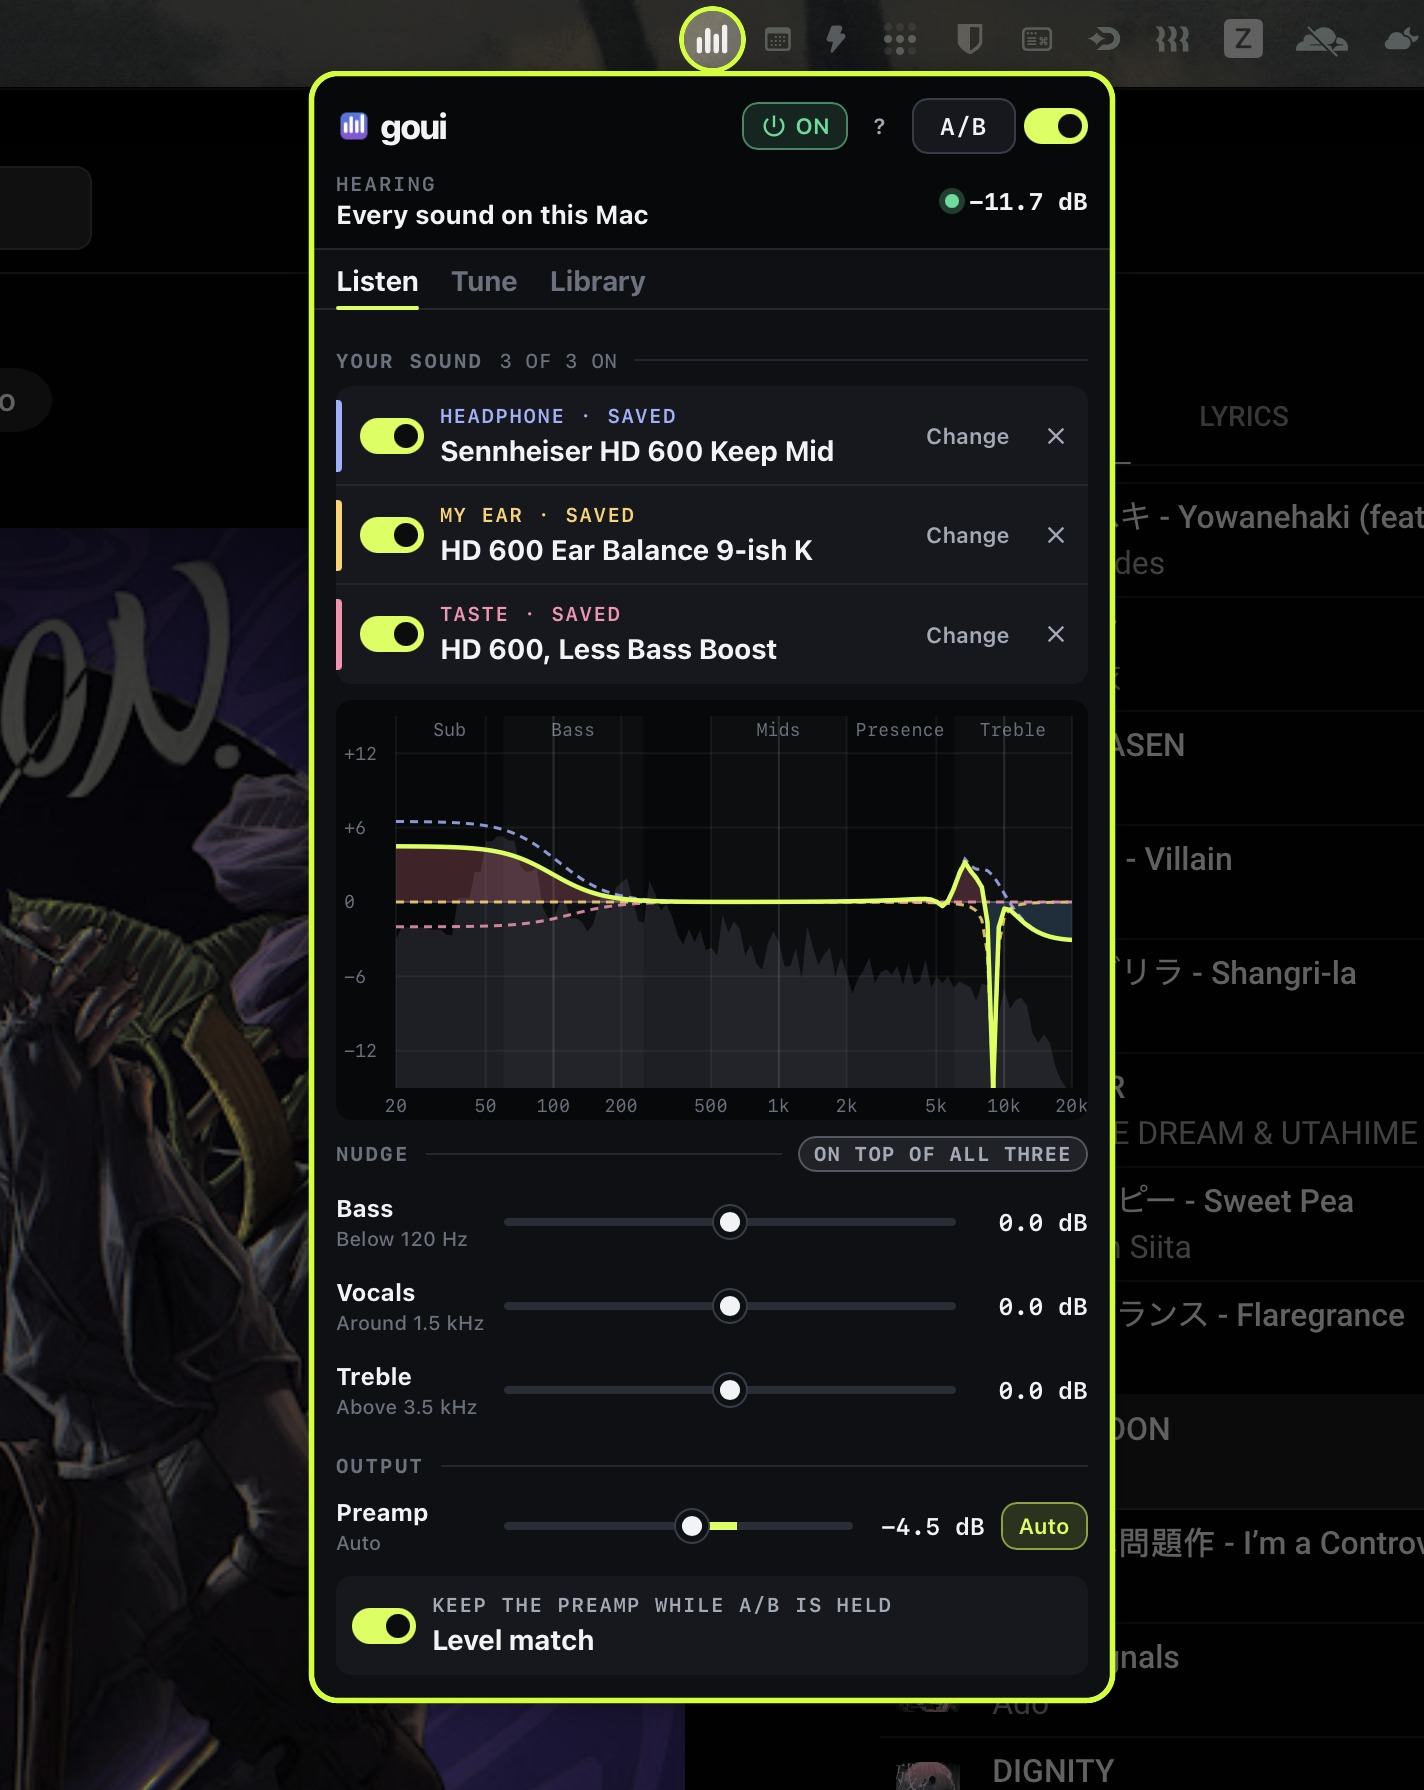
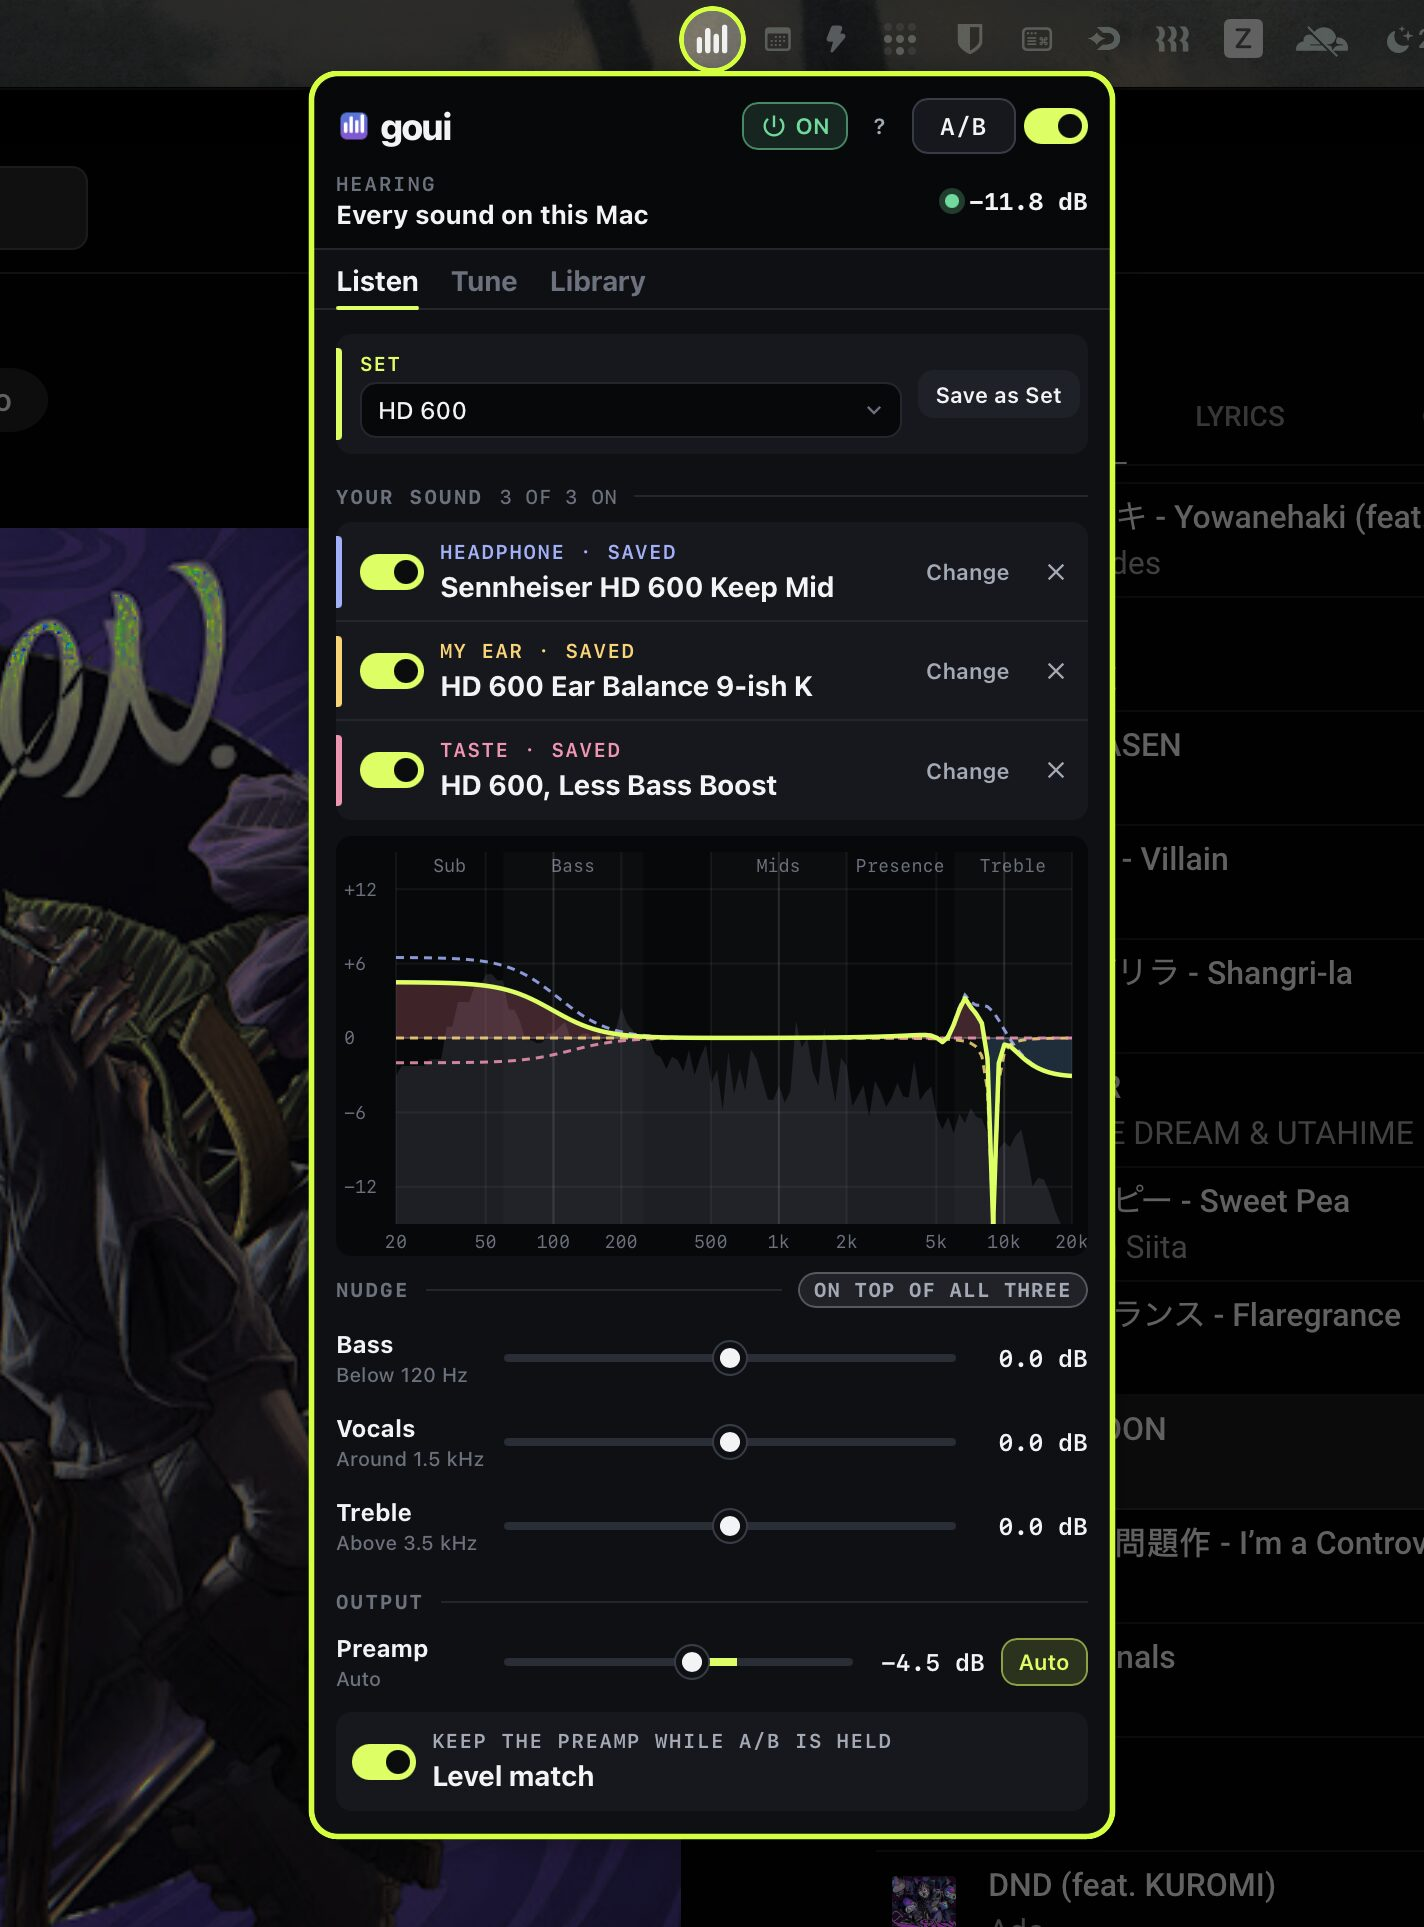
Show Sets in the Mac photos
Both photos are taken again from the new screenshots, so the narrow panel shows the Set
picker and the wide panel shows the Sets tab. The crop, the dim and the ring follow the
same recipe, with the panel a little taller and 4 px further right.

The alt text names the Set.

diff --git a/site/public/index.html b/site/public/index.html
@@ -49,7 +49,7 @@
         <h2>goui for the Mac</h2>
         <p class="lead">The same EQ, for every sound the Mac plays. Not one tab, the whole Mac.</p>
         <div class="two-col">
-          <img src="/images/mac-panel.jpg" alt="The goui panel open under its menu bar item, over YouTube Music, with the Sennheiser HD 600 AutoEQ curve and the live spectrum." />
+          <img src="/images/mac-panel.jpg" alt="The goui panel open under its menu bar item, over YouTube Music, with a Set picked, the Sennheiser HD 600 curve and the live spectrum." />
           <div>
             <p>
               goui lives in the menu bar. One click opens the panel you know from the browser. It tunes
@@ -72,7 +72,7 @@
         </div>
         <h3>Wide panel</h3>
         <p class="lead">Widen it, and Listen, Tune and Library stand side by side, as in a wide Chrome side panel.</p>
-        <img class="wide-shot" src="/images/mac-wide.jpg" alt="The wide goui panel under its menu bar item, with Listen, Tune and Library in three columns." />
+        <img class="wide-shot" src="/images/mac-wide.jpg" alt="The wide goui panel under its menu bar item, with Listen, Tune and Library in three columns and the Sets tab open." />
         <h3>Install</h3>
         <p class="lead">One line in Terminal. No admin password. It checks your Mac and asks before it installs.</p>
         <pre class="install-line"><code>curl -fsSL https://raw.githubusercontent.com/wyndhamharyata/goui/main/mac/install.sh | sh</code></pre>
